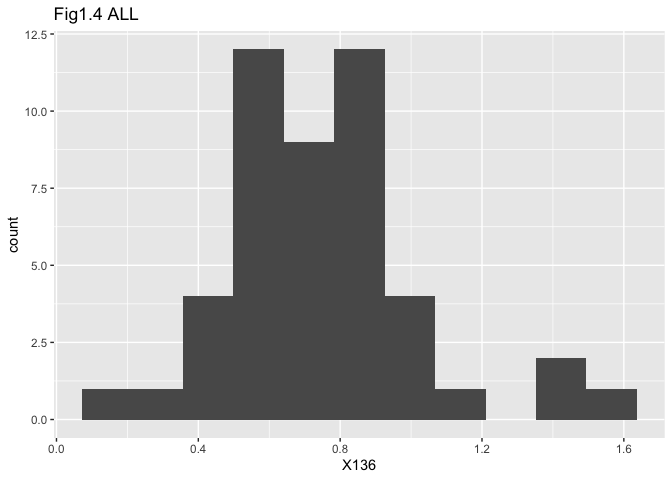
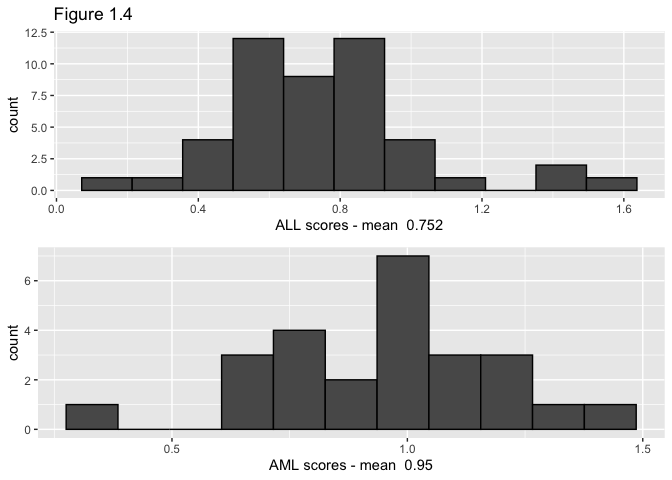
ch1 some modifications

diff --git a/Ch1-3.md b/Ch1-3.md
@@ -18,6 +18,17 @@ library(tidyverse)
     ## x dplyr::filter() masks stats::filter()
     ## x dplyr::lag()    masks stats::lag()
 
+``` r
+library(gridExtra)
+```
+
+    ## 
+    ## Attaching package: 'gridExtra'
+
+    ## The following object is masked from 'package:dplyr':
+    ## 
+    ##     combine
+
 # Ch 1. Algorithms and Inference
 
 ## Fig 1.1
@@ -161,66 +172,31 @@ for(i in 1:7){
 
 ``` r
 leukemia_big <- read.csv("http://web.stanford.edu/~hastie/CASI_files/DATA/leukemia_big.csv")
-z <- vector(length=72)
-for(i in 1:72){
-  z[i] <- strsplit(colnames(leukemia_big), "[.]")[[i]][1]
-}
 leukemia_big <- data.frame(t(leukemia_big))
+leukemia_big$group <- sapply(rownames(leukemia_big), function(word){substr(word, 1, 3)})
 
-leukemia_big$group <- z
-####################
-leukemia_big %>%
-  group_by(group) %>%
-  summarise(M = mean(X136))
-```
-
-    ## `summarise()` ungrouping output (override with `.groups` argument)
-
-    ## # A tibble: 2 x 2
-    ##   group     M
-    ##   <chr> <dbl>
-    ## 1 ALL   0.752
-    ## 2 AML   0.950
-
-``` r
-leukemia_big %>%
-  filter(group == "ALL") %>%
-  ggplot(data=., aes(x = X136)) + geom_histogram(bins=11) +
-  labs(title = "Fig1.4 ALL")
+grid.arrange(
+  leukemia_big %>%
+    filter(group == "ALL") %>%
+    ggplot(data=., aes(x = X136)) + geom_histogram(bins=11, colour = "black") +
+    labs(title = "Figure 1.4") +
+    xlab(paste("ALL scores - mean ", 
+               round(mean(leukemia_big$X136[which(leukemia_big$group == "ALL")]), 3))),
+  leukemia_big %>%
+    filter(group == "AML") %>%
+    ggplot(data=., aes(x = X136)) + geom_histogram(bins=11, colour = "black") +
+    xlab(paste("AML scores - mean ", 
+               round(mean(leukemia_big$X136[which(leukemia_big$group == "AML")]), 3))),
+  nrow = 2
+)
 ```
 
 ![](Ch1-3_files/figure-gfm/unnamed-chunk-7-1.png)<!-- -->
-
-``` r
-leukemia_big %>%
-  filter(group == "AML") %>%
-  ggplot(data=., aes(x = X136)) + geom_histogram(bins=11) +
-  labs(title = "Fig1.4 AML")
-```
-
-![](Ch1-3_files/figure-gfm/unnamed-chunk-7-2.png)<!-- -->
-
-``` r
-####################
-# leukemia_small <- read.csv("leukemia_small.csv", header = T)
-# z <- vector(length=72)
-# for(i in 1:72){
-#   z[i] <- strsplit(colnames(leukemia_small), "[.]")[[i]][1]
-# }
-# leukemia_small <- data.frame(t(leukemia_small))
-# 
-# leukemia_small$group <- z
-# ##################
-# leukemia_small %>%
-#   group_by(group) %>%
-#   summarise(M = mean(X136))
-```
 
 ## Fig 1.5
 
 ``` r
 get_t <- function(d){
-  #colnames(d) <- c("gene", "group")
   x1 <- d %>% filter(group == "AML") %>% pull(1)
   x2 <- d %>% filter(group == "ALL") %>% pull(1)
   sigma_hat <- (sum((x1 - mean(x1))^2) + sum((x2 - mean(x2))^2))/70
@@ -230,35 +206,21 @@ get_t <- function(d){
   return(t)
 }
 
-#get_t(leukemia_big[,c(1,7129)])
+#get_t(leukemia_big[,c(1,7129)]) #7129th column = group
 ###############################
-leuk_t <- c()
-for(i in 1:7128){
-  leuk_t[i] <- get_t(leukemia_big[,c(i,7129)])
-}
+leuk_t <- sapply(1:7128, function(i){get_t(leukemia_big[, c(i, 7129)])})
 
-hist(leuk_t)
+{hist(leuk_t, breaks = 50, main = "Figure 1.5")
+curve(dt(x, df = 70)*7128, add = TRUE)}
 ```
 
 ![](Ch1-3_files/figure-gfm/unnamed-chunk-8-1.png)<!-- -->
 
-``` r
-leuk_t[136]
-```
+# Ch 2. Frequentist Inference
 
-    ## [1] 3.014003
+Skip
 
-``` r
-###############################
-# leuk_smallt <- c()
-# for(i in 1:3571){
-#   leuk_smallt[i] <- get_t(leukemia_small[,c(i,3572)])
-# }
-# 
-# hist(leuk_smallt)
-```
-
-# Ch 3. Bayes
+# Ch 3. Bayesian Inference
 
 ``` r
 ##Normal means model
